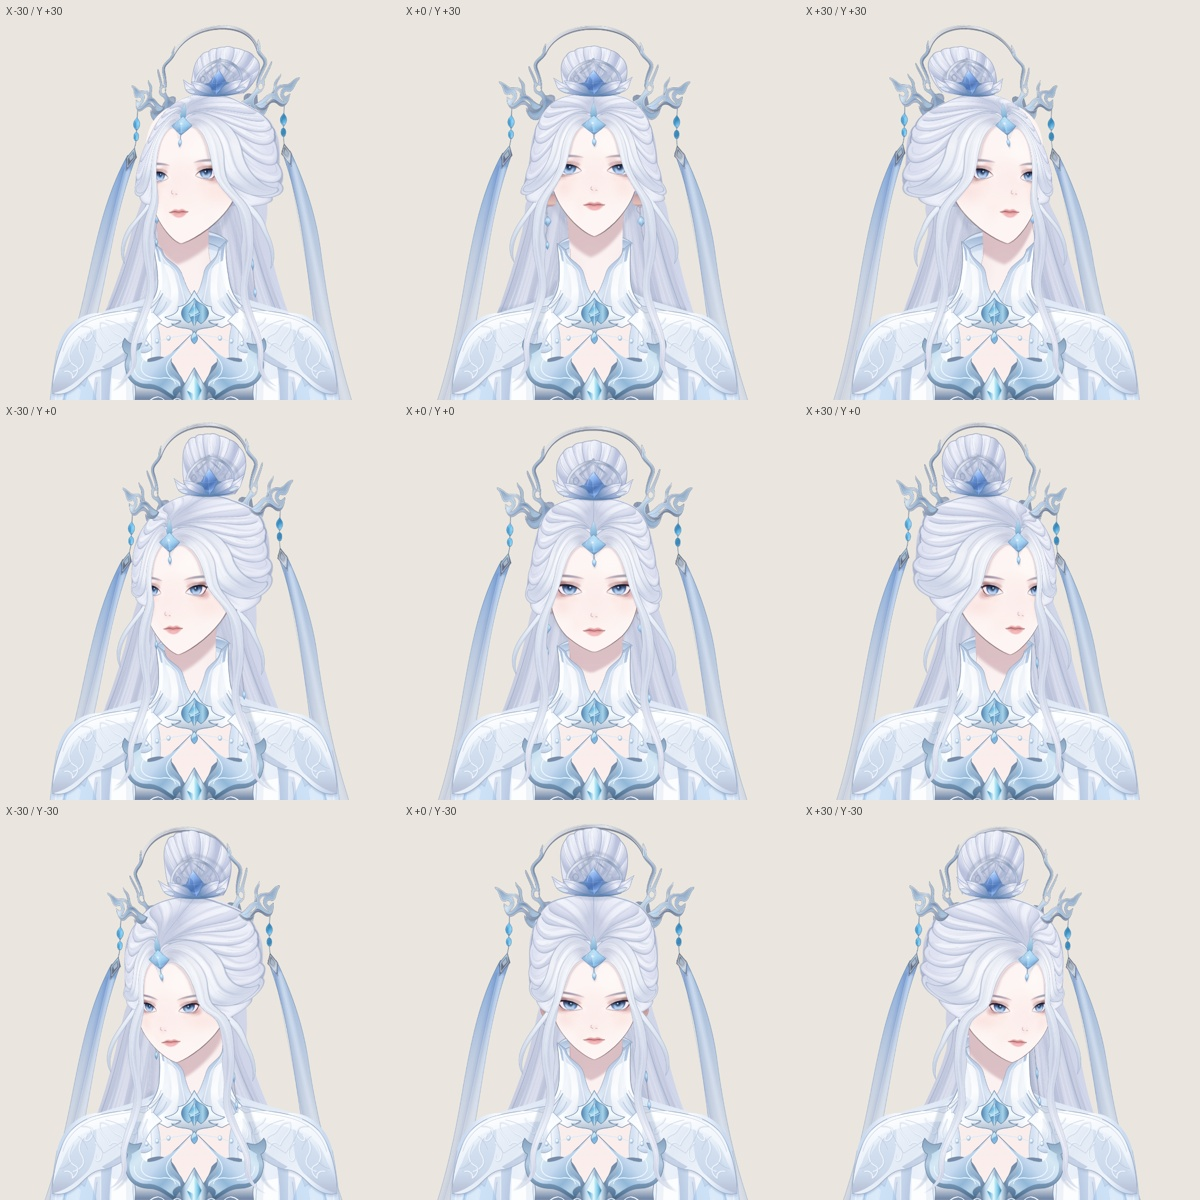
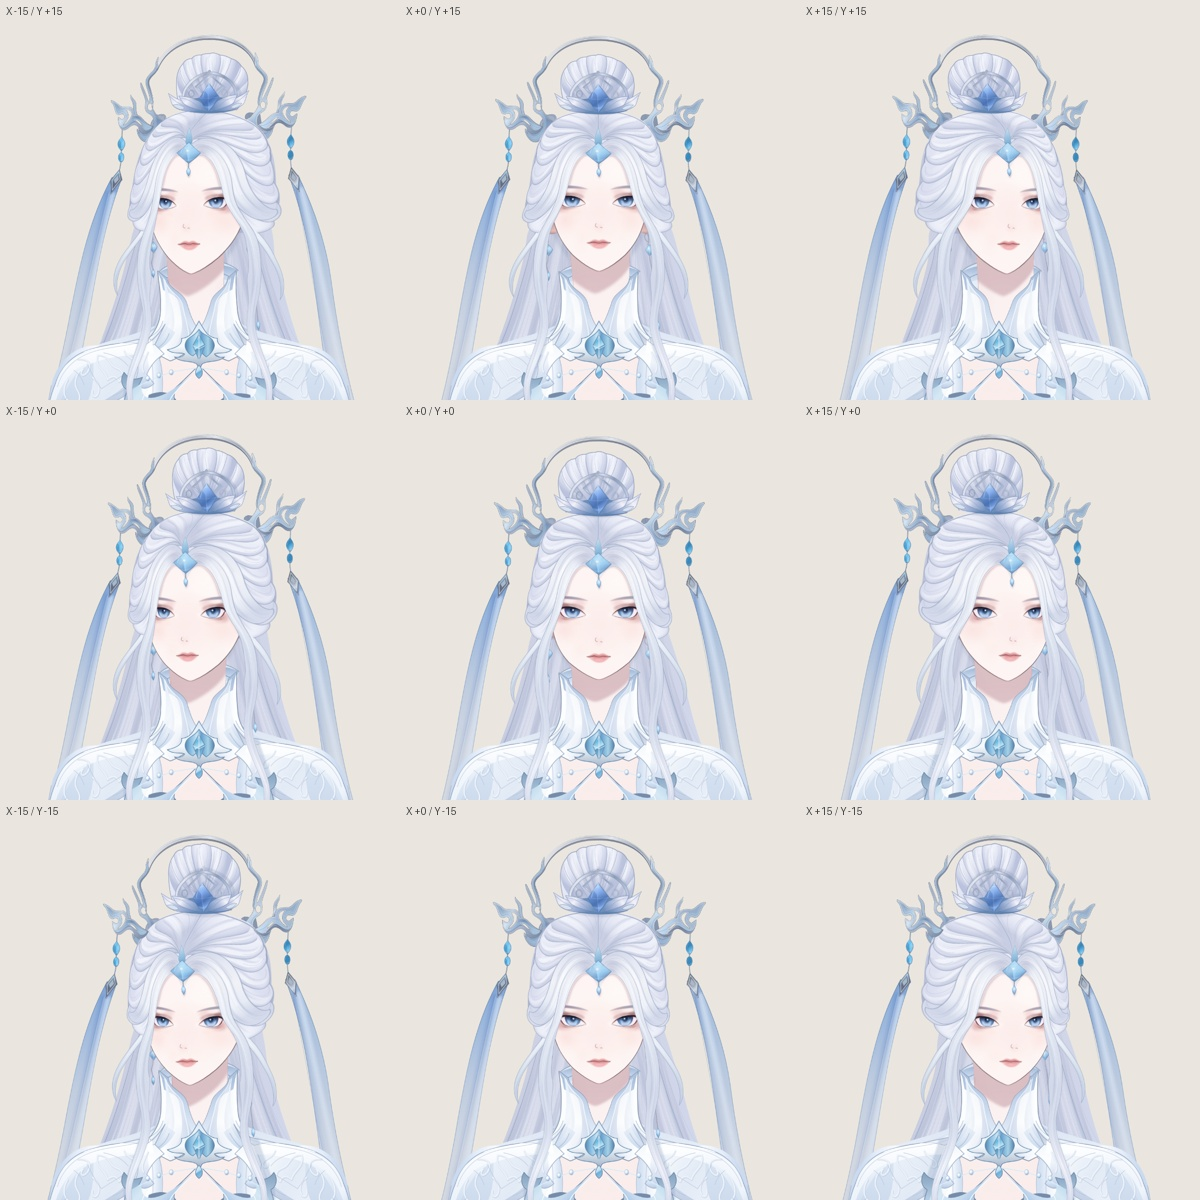
fix(rigging): bound Jianma head follow to existing fifteen-degree poses

Changed region(s): [[0.37, 0.0308, 0.6475, 1.0], [0.7092, 0.0308, 0.9558, 1.0], [0.0308, 0.0308, 0.3083, 1.0]]

diff --git a/rigging/jianma2d-head/index.html b/rigging/jianma2d-head/index.html
@@ -2,7 +2,7 @@
 <html lang="zh-CN"><head><meta charset="utf-8"><meta name="viewport" content="width=device-width,initial-scale=1"><title>剑妈 · 头部九轴研究</title><link rel="stylesheet" href="style.css"></head>
 <body><header><div><p class="eyebrow">ASTRA / RIGGING STUDIES · 01</p><h1>剑妈<span>头部九轴</span></h1></div><a href="README.md">制作笔记 ↗</a></header>
 <main><section class="stage-card" aria-label="角色变形预览"><div class="stage-top"><span id="pose-label">正面 · 原始姿态</span><span id="status" role="status">正在载入分层原画…</span></div><div class="viewport"><canvas id="stage" aria-label="剑妈头部九轴实时预览"></canvas><svg id="guides" aria-hidden="true"></svg></div><div class="stage-bottom"><span>拖动右侧圆点，观察整个头部的联动</span><button id="play" disabled>连续巡览</button></div></section>
-<aside><section class="panel"><div class="section-title"><h2>方向与边界</h2><button id="reset" disabled>回到原画</button></div><p class="muted">九个姿态共同构成连续的转头范围。</p>
+<aside><section class="panel"><div class="section-title"><h2>方向与边界</h2><button id="reset" disabled>回到原画</button></div><p class="muted">X / Y 最大幅度为 ±15，以轻微转头表达方向。</p>
 <div class="direction-controls"><div id="pad" role="application" tabindex="0" aria-label="转头方向，方向键调节左右及俯仰"><span class="pad-up">抬头</span><span class="pad-down">低头</span><span class="pad-left">左</span><span class="pad-right">右</span><i id="dot"></i></div><div id="nine" class="nine" aria-label="九个边界姿态"></div></div>
 <div id="sliders"></div></section>
 <section class="panel"><h2>观察整体变形</h2><label class="check"><input id="physics" type="checkbox" checked>头发与配饰惯性</label><label class="check"><input id="grid" type="checkbox">显示脸部曲面与中线</label><label class="check"><input id="bare" type="checkbox">隐藏头发与头饰，检查脸型</label><label class="check"><input id="closeup" type="checkbox">面部近景</label><p class="muted footnote">发根随头转动，长发逐渐过渡到肩部。五官保留独立关键形，头饰有透视，发梢带阻尼摆动。</p></section>
